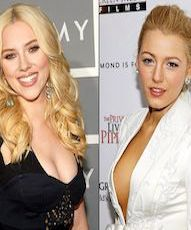
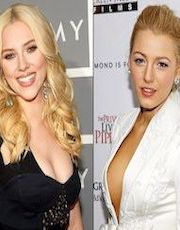
css updates

diff --git a/ryanpersonal.html b/ryanpersonal.html
@@ -50,16 +50,18 @@
         </nav>
 
 <section>
-    <h1>Ryan Rodney Reynolds</h1>
-    <h2>His Personal Life</h2>
+    <h1 class= "main-card-title">Ryan Rodney Reynolds</h1>
+    <h2 class= "main-card-title">His Personal Life</h2>
 </section>
 
 <section>
-  <!-- Bootstrap card for birth -->
-  <div class="card mb-3" style="max-width: 540px;">
+<div class="personal-container">
+
+<!-- Card for birth -->
+  <div class="personal-page-cards card mb-3" style="max-width: 540px;">
     <div class="row no-gutters">
       <div class="col-md-4">
-        <img src="pictures/ryan-childhood.jpg" class="card-img" alt="...">
+        <img src="pictures/ryan-childhood.jpg" class="personal-img card-img" alt="...">
       </div>
       <div class="col-md-8">
         <div class="card-body">
@@ -68,31 +70,33 @@
             October 23rd, 1976(age 42)<br>
             Vancouver, British Columbia, Canada
           </p>
-          <p class="card-text"><small class="text-muted">Last updated 3 mins ago</small></p>
         </div>
       </div>
     </div>
   </div>
-  <!-- Bootstrap card for residence -->
-  <div class="card mb-3" style="max-width: 540px;">
+
+<!-- Card for residence -->
+
+  <div class="personal-page-cards card mb-3" style="max-width: 540px;">
     <div class="row no-gutters">
       <div class="col-md-4">
-        <img src="pictures/ryan.home.jpg" class="card-img" alt="...">
+        <img src="pictures/ryan.home.jpg" class="personal-img card-img" alt="...">
       </div>
       <div class="col-md-8">
         <div class="card-body">
           <h5 class="card-title">Residence</h5>
           <p class="card-text">Bedford, New York, U.S.</p>
-          <p class="card-text"><small class="text-muted">Last updated 3 mins ago</small></p>
         </div>
       </div>
     </div>
   </div>
-  <!-- Card for spouses -->
-  <div class="card mb-3" style="max-width: 540px;">
+
+<!-- Card for spouses -->
+
+  <div class="personal-page-cards card mb-3" style="max-width: 540px;">
       <div class="row no-gutters">
         <div class="col-md-4">
-          <img src="pictures/sj_bl.jpg" class="card-img" alt="...">
+          <img src="pictures/sj_bl.jpg" class="personal-img card-img" alt="...">
         </div>
         <div class="col-md-8">
           <div class="card-body">
@@ -104,16 +108,18 @@
                   (m. 2012)</li>
               </ul>
             </p>
-            <p class="card-text"><small class="text-muted">Last updated 3 mins ago</small></p>
           </div>
         </div>
       </div>
     </div>
+  </div>
+
   <!-- Card for children -->
-  <div class="card mb-3" style="max-width: 540px;">
+
+  <div class="personal-page-cards card mb-3" style="max-width: 540px;">
       <div class="row no-gutters">
         <div class="col-md-4">
-          <img src="pictures/ryan.children.jpg" class="card-img" alt="...">
+          <img src="pictures/ryan.children.jpg" class="personal-img card-img" alt="...">
         </div>
         <div class="col-md-8">
           <div class="card-body">
@@ -123,23 +129,28 @@
               <li>Inez Reynolds</li>
               <li>James Reynolds</li>
             </ul>
-            <p class="card-text"><small class="text-muted">Last updated 3 mins ago</small></p>
+            </p>
           </div>
         </div>
       </div>
     </div>
+  </div>
+    
+</div>
 </section>
-<footer>
 
+<!--End Personal Page-->
+
+  <footer>
   <div class="footer">
   
-  <!-- Outside Link Icons -->
-  <div class="container">
+<!-- Outside Link Icons -->
+  <div class="container footer-container">
       <div class="icons">
-         <a href="https://www.instagram.com/vancityreynolds/?hl=en" class="indv-icons">
-             <img src="../index_img/Instagram.png" alt="Instagram">
-         </a> 
-         <a href="https://twitter.com/vancityreynolds?lang=en" class="indv-icons">
+          <a href="https://www.instagram.com/vancityreynolds/?hl=en" class="indv-icons">
+              <img src="../index_img/Instagram.png" alt="Instagram">
+          </a> 
+          <a href="https://twitter.com/vancityreynolds?lang=en" class="indv-icons">
               <img src="../index_img/Twitter.png" alt="Twitter">
           </a> 
           <a href="https://www.facebook.com/VancityReynolds/" class="indv-icons">
@@ -150,7 +161,8 @@
           </a> 
       </div>
   </div>
-  <!-- Outside Link Icons -->
+
+<!-- Outside Link Icons -->
   
   <!-- Copyright -->
   <div class="footer-copyright text-center py-3">© 2019 Copyright:
@@ -165,5 +177,6 @@
   <script src="https://code.jquery.com/jquery-3.3.1.slim.min.js" integrity="sha384-q8i/X+965DzO0rT7abK41JStQIAqVgRVzpbzo5smXKp4YfRvH+8abtTE1Pi6jizo" crossorigin="anonymous"></script>
   <script src="https://cdnjs.cloudflare.com/ajax/libs/popper.js/1.14.7/umd/popper.min.js" integrity="sha384-UO2eT0CpHqdSJQ6hJty5KVphtPhzWj9WO1clHTMGa3JDZwrnQq4sF86dIHNDz0W1" crossorigin="anonymous"></script>
   <script src="https://stackpath.bootstrapcdn.com/bootstrap/4.3.1/js/bootstrap.min.js" integrity="sha384-JjSmVgyd0p3pXB1rRibZUAYoIIy6OrQ6VrjIEaFf/nJGzIxFDsf4x0xIM+B07jRM" crossorigin="anonymous"></script>
-</body>
+
+  </body>
 </html>

diff --git a/main.css b/main.css
@@ -40,3 +40,24 @@
 }
 
 /* End Main page CSS */
+
+/* Personal page CSS */
+
+.personal-container{
+    display: flex;
+    flex-wrap: wrap;
+    justify-content: center;
+}
+
+.personal-page-cards{
+    display: flex;
+    flex-wrap: wrap;
+    margin: 25px;
+    flex-direction: row;
+}
+
+.personal-img {
+    width: 180px;
+    height: 230px;
+}
+/* End Main page CSS */
